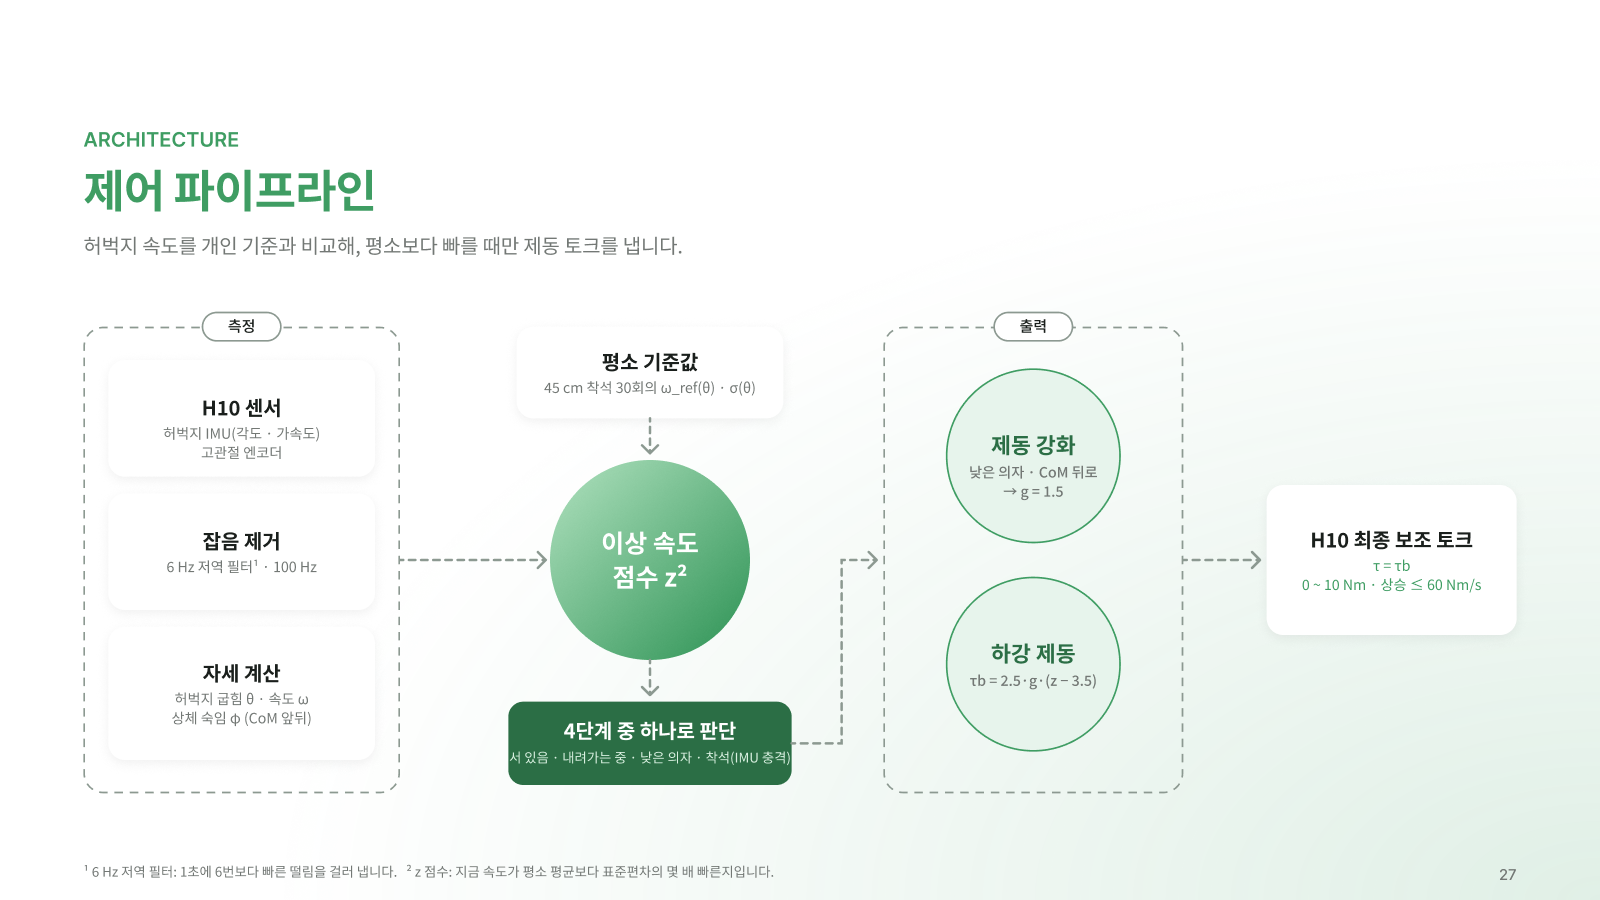
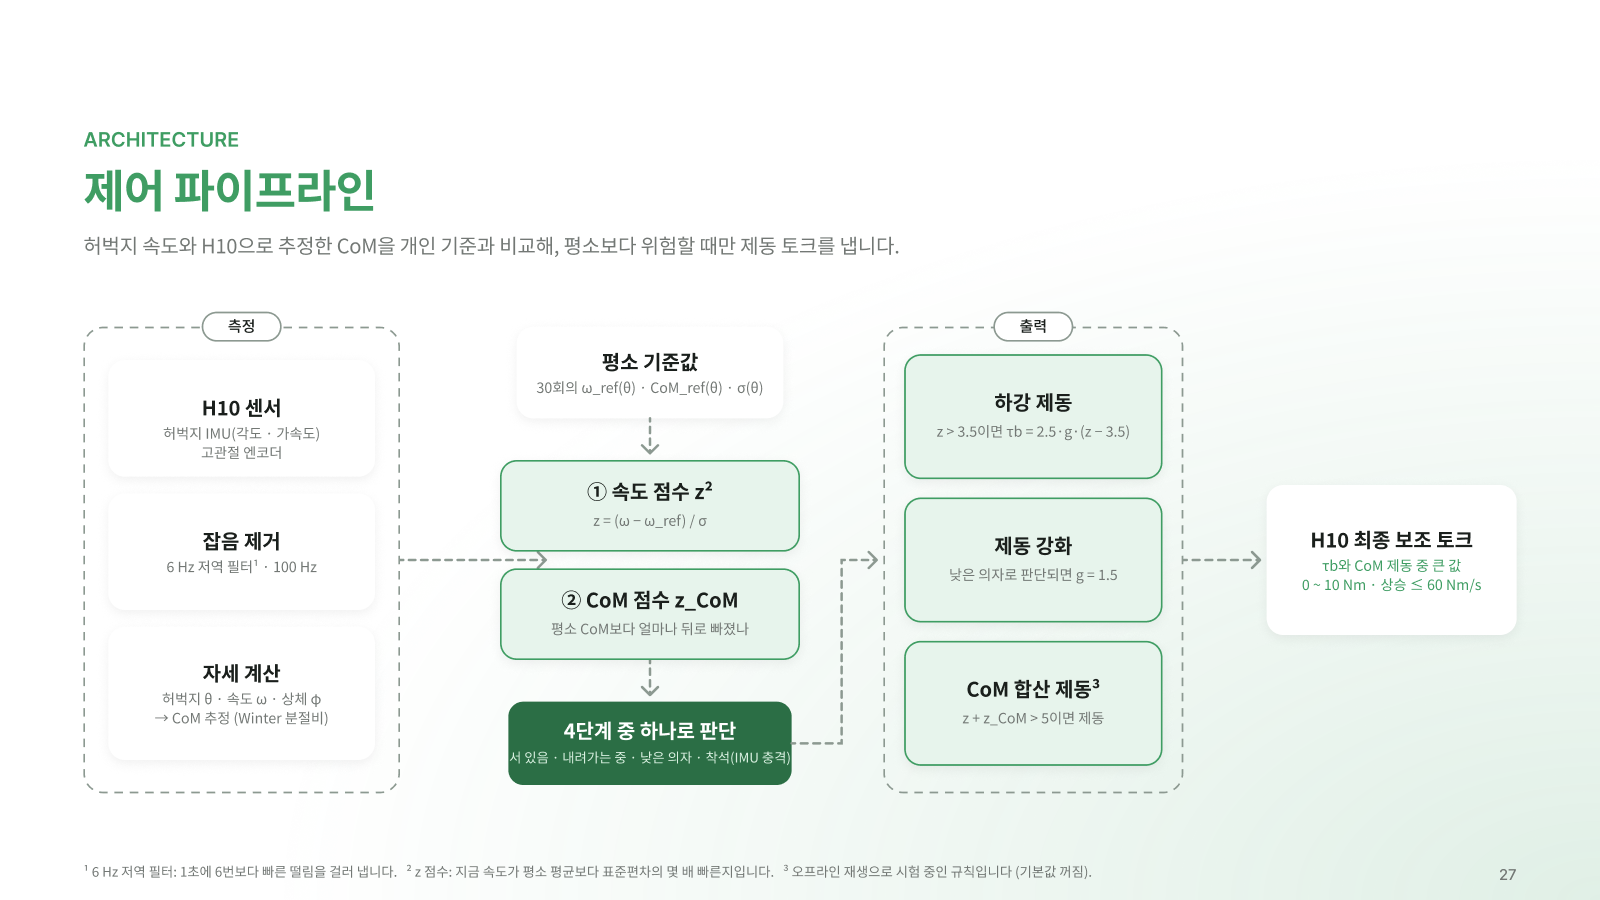
Slides: show speed and CoM scores and brake rules in control pipeline

diff --git a/presentation/발표_흐름.md b/presentation/발표_흐름.md
@@ -36,7 +36,7 @@ Figma Slides: https://www.figma.com/slides/4tZDoTD6FXxpx83Z0kraKR
 | 24 | DATA · 측면 촬영 | 내려가는 속도와 CoM을 재기 위해 옆에서 촬영했습니다 | 공개 저장소 생략 |
 | 25 | DATA · 카메라 + H10 | 카메라와 H10을 함께 기록했습니다 | |
 | 26 | 간지 PART 04 | 알고리즘 | |
-| 27 | ARCHITECTURE | 제어 파이프라인 | |
+| 27 | ARCHITECTURE | 제어 파이프라인 | 측정(H10 · 잡음 제거 · 자세 계산 → CoM 추정) → ① 속도 점수 z ② CoM 점수 z_CoM → 하강 제동(z > 3.5) · 제동 강화(낮은 의자 g = 1.5) · CoM 합산 제동(z + z_CoM > 5, 시험 중) → τ = 큰 값 |
 | 28 | ALGORITHM_1 | 착석 단계 판단 | |
 | – | (숨김) | 보조 토크는 어떻게 정할까요? | |
 | 29 | 간지 PART 05 | 결과 | |
